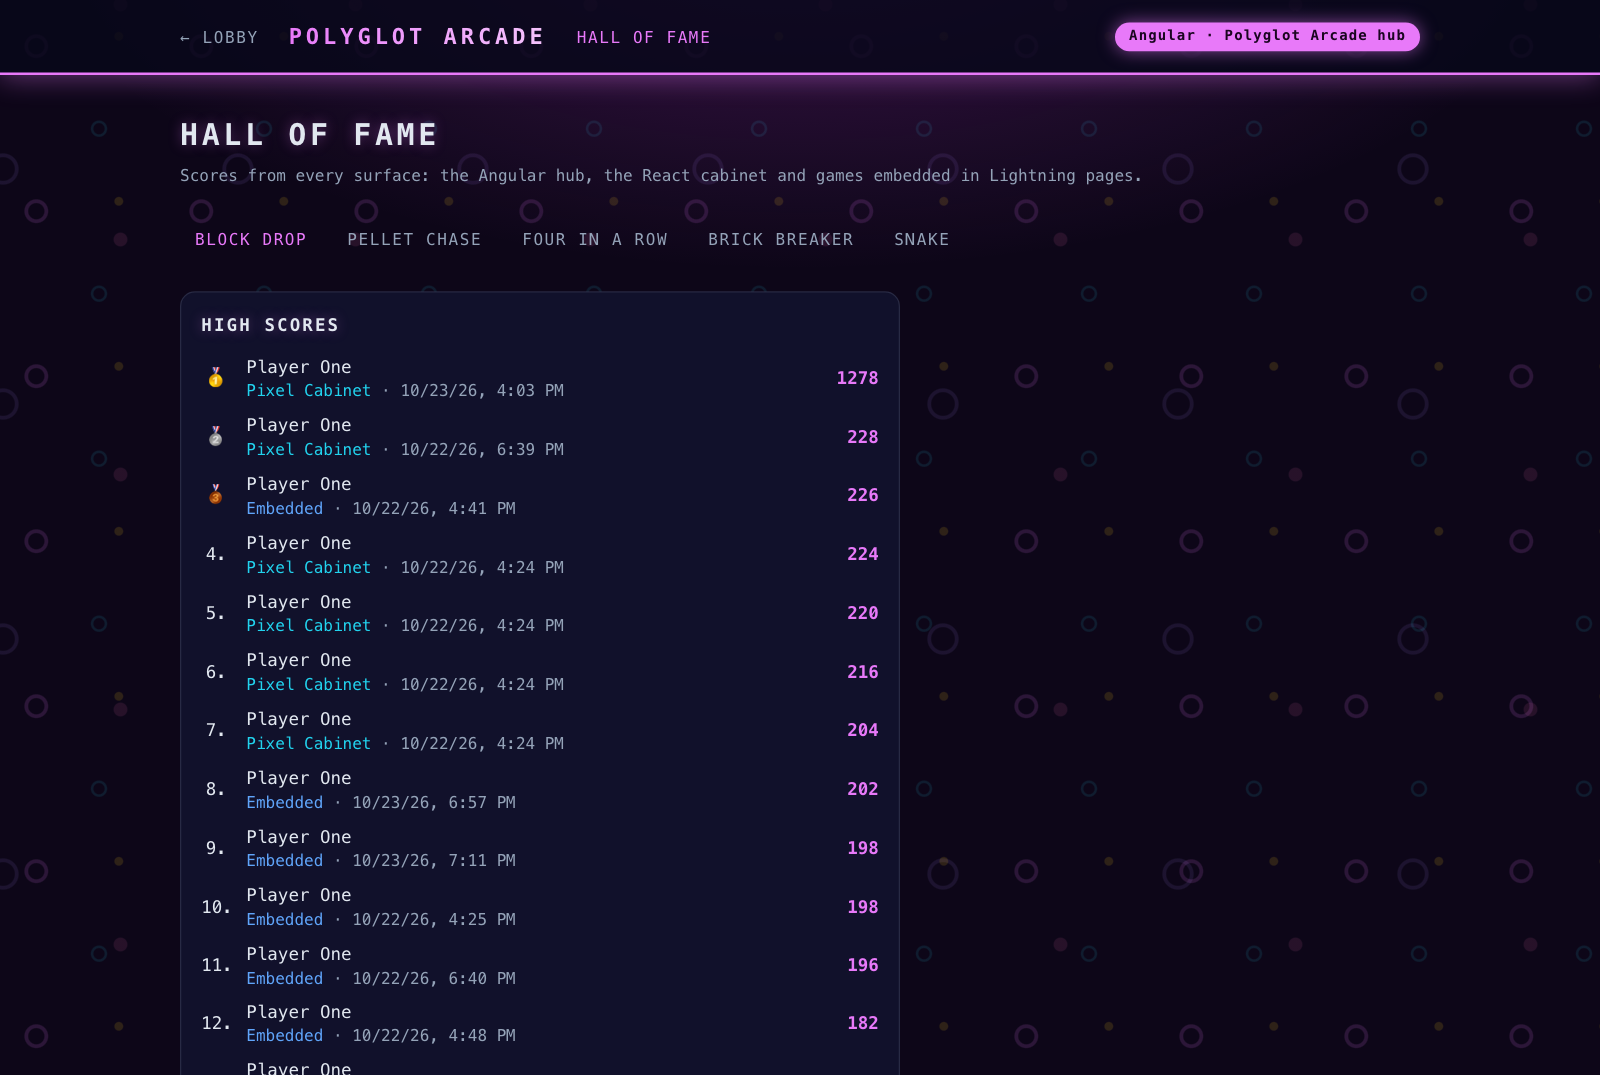
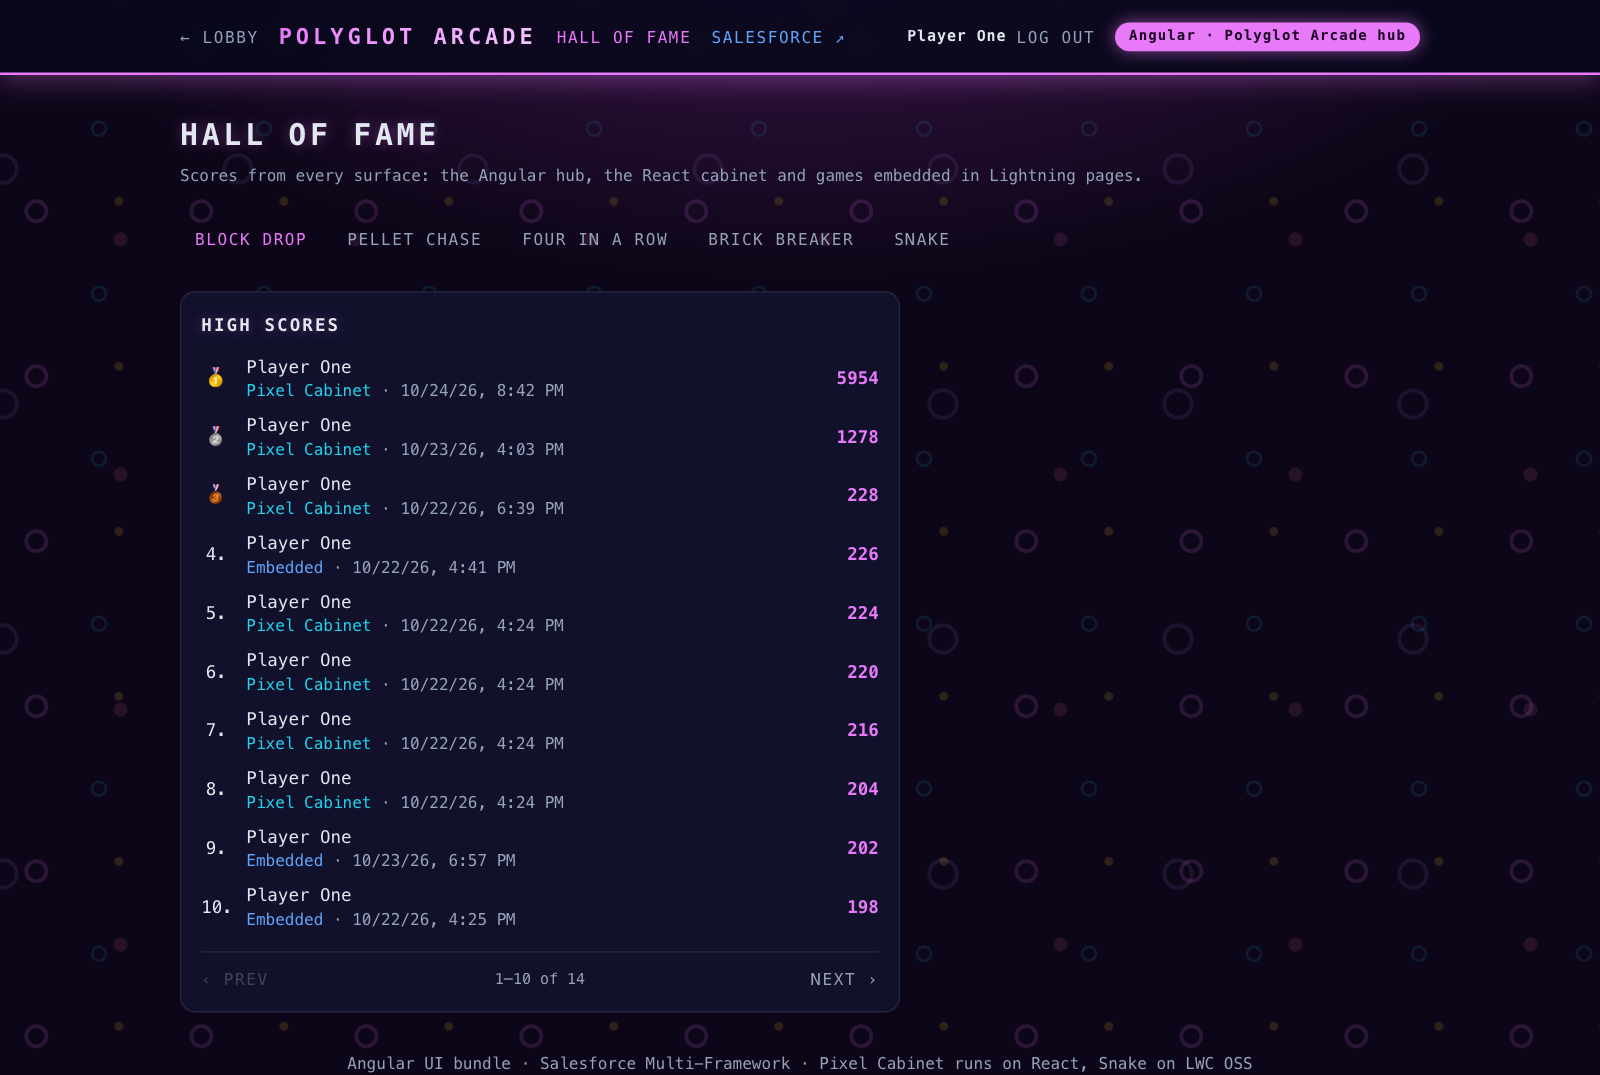
docs(machines): bar, pagination and refreshed screenshots

diff --git a/README.md b/README.md
@@ -48,13 +48,13 @@ React and Angular are generally available for UI bundles as of Winter '27. Embed
 
 **Same hall, different machines.** Every game has a cabinet of its own, with its HUD, result screen and high-score card in its style:
 
-| Game          | Machine                                                                                                            |
-| ------------- | ------------------------------------------------------------------------------------------------------------------ |
-| Pellet Chase  | Upright arcade cabinet: backlit marquee, CRT with scanlines, joystick panel, coin door, attract-screen high scores |
-| Block Drop    | Handheld brick-game console: grey-olive LCD with segment digits, direction and rotate keys as touch controls       |
-| Brick Breaker | 80s home console on a wood-grain CRT TV, with the cartridge box as high-score card                                 |
-| Four in a Row | Tabletop toy: glossy frame on feet, discs that drop and bounce, the result on the lid of the game box              |
-| Snake         | Retro phone with its own LCD; embedded, the Lightning page shows the part with the screen and the navigation keys  |
+| Game          | Machine                                                                                                                                      |
+| ------------- | -------------------------------------------------------------------------------------------------------------------------------------------- |
+| Pellet Chase  | Upright arcade cabinet: backlit marquee, CRT with scanlines, joystick panel, attract-screen high scores                                      |
+| Block Drop    | Handheld brick game in early-90s proportions: ivory plastic, grey-olive LCD with segment digits, direction and rotate keys as touch controls |
+| Brick Breaker | 80s home console on a wood-grain CRT TV, with the cartridge box as high-score card                                                           |
+| Four in a Row | Tabletop toy: glossy blue frame on feet, discs that drop and bounce, the result on the lid of the game box                                   |
+| Snake         | Retro phone with its own LCD; embedded, the Lightning page shows the part with the screen and the navigation keys                            |
 
 In the hub lobby every game card carries a teaser marquee in the look of its machine and says where the game lives.
 
@@ -62,9 +62,9 @@ In the hub lobby every game card carries a teaser marquee in the look of its mac
 | ---------------------------------------------------------------------------------------------------------------------------------------------------------------------- | -------------------------------------------------------------------------------------------------------------------------------------------------------------------- |
 | <img src="./images/four-in-a-row.png" alt="Four in a Row as a tabletop toy, won against the CPU, the result on the game box lid next to its high scores" width="440"/> | <img src="./images/brick-breaker.png" alt="Brick Breaker on a wood-grain CRT TV with the console and cartridge, next to the cartridge box high scores" width="440"/> |
 | **Block Drop (React cabinet)**                                                                                                                                         | **Pellet Chase (React cabinet)**                                                                                                                                     |
-| <img src="./images/pixel-cabinet.png" alt="Block Drop on a red handheld brick game with an LCD, in the cyan machine room of the Pixel Cabinet" width="440"/>           | <img src="./images/pellet-chase.png" alt="Pellet Chase in an upright arcade cabinet with CRT, joystick panel and the attract-screen high scores" width="440"/>       |
+| <img src="./images/pixel-cabinet.png" alt="Block Drop on an ivory handheld brick game with an LCD, in the cyan machine room of the Pixel Cabinet" width="440"/>        | <img src="./images/pellet-chase.png" alt="Pellet Chase in an upright arcade cabinet with CRT, joystick panel and the attract-screen high scores" width="440"/>       |
 | **Microfrontend on a Lightning page**                                                                                                                                  | **Hall of fame across all surfaces**                                                                                                                                 |
-| <img src="./images/snake.png" alt="Snake embedded on its page in the Arcade Floor app, with the way back to the hub and the LWC leaderboard" width="440"/>             | <img src="./images/hall-of-fame.png" alt="Hall of fame listing scores, the source of each round in the color of its surface" width="440"/>                           |
+| <img src="./images/snake.png" alt="Snake embedded on its page in the Arcade Floor app, with the way back to the hub and the LWC leaderboard" width="440"/>             | <img src="./images/hall-of-fame.png" alt="Hall of fame listing ten scores per page, the source of each round in the color of its surface" width="440"/>              |
 
 ## 🏗 Architecture
 
@@ -114,7 +114,7 @@ Every surface has one role (see [ADR 0001](docs/decisions/0001-surface-roles.md)
 | **Pixel Cabinet** (React UI bundle)     | cyan machine room   | A machine, not a second hub. It has no lobby: opening it sends the player to the hub lobby. The hub launches its games at `/play/<game>`, Lightning frames them at `/embed`.                                                                    |
 | **Arcade Floor** (Lightning app)        | blue                | Where microfrontends are composed: the **Snake** page with the Snake and its leaderboard, and the **Arcade Account** record page (app default for Accounts) with the cabinet and the Account's leaderboard. Rounds there count for the Account. |
 
-Every standalone page starts with the same marquee bar: `← Lobby` and a badge naming the surface (`Angular · Polyglot Arcade hub`, `React · Pixel Cabinet UI bundle`). The bar is laid out the same everywhere but glows in the color of its surface, and the room below it is the surface's own: the hub is a magenta arcade hall, the cabinet a cyan machine room. Lobby cards, launch buttons and the hall of fame use the same colors to say where a game lives and where a round was played, and the embedded cabinet carries a slim `React · Pixel Cabinet UI bundle` tag inside the Lightning frame. A switch between bundles is visible instead of feeling like a break (see [ADR 0002](docs/decisions/0002-surfaces-and-machines.md)). In Lightning, the host card links back with `← Polyglot Arcade`.
+Every standalone page starts with the same marquee bar, which stays on top while the page scrolls: `← Lobby`, `Salesforce ↗` (the way out to the Arcade Floor app in Lightning), the player with `Log out`, and a badge naming the surface (`Angular · Polyglot Arcade hub`, `React · Pixel Cabinet UI bundle`). The player and `Log out` replace the platform's session banner, which both bundles switch off with `<meta name="sf-session-banner" content="disabled">`. The bar is laid out the same everywhere but glows in the color of its surface, and the room below it is the surface's own: the hub is a magenta arcade hall, the cabinet a cyan machine room. Lobby cards, launch buttons and the hall of fame use the same colors to say where a game lives and where a round was played, and the embedded cabinet carries a slim `React · Pixel Cabinet UI bundle` tag inside the Lightning frame. A switch between bundles is visible instead of feeling like a break (see [ADR 0002](docs/decisions/0002-surfaces-and-machines.md)). In Lightning, the host card links back with `← Polyglot Arcade`.
 
 The demo covers four integration patterns:
 

diff --git a/docs/decisions/0002-surfaces-and-machines.md b/docs/decisions/0002-surfaces-and-machines.md
@@ -14,10 +14,10 @@ Polyglot Arcade exists to show Salesforce Multi-Framework. That two frameworks r
 
 **Same hall, different machines - and two halls, one bar.** There are two levels of identity:
 
-| Level   | What is shared                                                                                     | What is its own                                                                                                                                                                                                            |
-| ------- | -------------------------------------------------------------------------------------------------- | -------------------------------------------------------------------------------------------------------------------------------------------------------------------------------------------------------------------------- |
-| Surface | The marquee bar's layout (`← Lobby`, logo, badge), base tokens, round result and high-score markup | A surface color and a room: the Angular hub is a **magenta arcade hall** with a carpet pattern, the React cabinet a **cyan machine room** with a blueprint grid. Lightning's Arcade Floor is **blue**.                     |
-| Machine | Nothing but the data: score, level, the leaderboard rows                                           | Cabinet, screen, HUD, controls, result screen and high-score card: an upright CRT cabinet (Pellet Chase), a handheld brick game (Block Drop), a console on a wood-grain TV (Brick Breaker), a tabletop toy (Four in a Row) |
+| Level   | What is shared                                                                                                             | What is its own                                                                                                                                                                                                            |
+| ------- | -------------------------------------------------------------------------------------------------------------------------- | -------------------------------------------------------------------------------------------------------------------------------------------------------------------------------------------------------------------------- |
+| Surface | The marquee bar's layout (`← Lobby`, logo, `Salesforce ↗`, player, badge), base tokens, round result and high-score markup | A surface color and a room: the Angular hub is a **magenta arcade hall** with a carpet pattern, the React cabinet a **cyan machine room** with a blueprint grid. Lightning's Arcade Floor is **blue**.                     |
+| Machine | Nothing but the data: score, level, the leaderboard rows                                                                   | Cabinet, screen, HUD, controls, result screen and high-score card: an upright CRT cabinet (Pellet Chase), a handheld brick game (Block Drop), a console on a wood-grain TV (Brick Breaker), a tabletop toy (Four in a Row) |
 
 The surface colors are used wherever a surface is named: the marquee bar and badge, a legend and a "Lives in" line on every lobby card, the launch buttons (they take the color of the surface they open), the source of each round in the hall of fame, and a slim `React · Pixel Cabinet UI bundle` tag below the compact machine that Lightning frames at `/embed`.
 
@@ -28,7 +28,8 @@ How it is built:
 - Fonts (Press Start 2P, DSEG7, VT323, Fredoka) come from npm under the SIL Open Font License and are bundled at build time. No CDN, no CSP change.
 - Teaser marquees in the lobby are pixel art per `Game_Key__c`, kept as data in the hub (`games/marquees.ts`) and drawn as SVG, so they need no asset path. Unknown games keep the plain card.
 - Game rules stay untouched in `engine.ts`. Canvas games only changed how they draw (an LCD for Block Drop, chunky 80s colors for Brick Breaker); scanlines and glare are CSS overlays above the canvas.
-- Nothing in a machine is sized by the viewport, and flicker, blinking lights and bounces stop under `prefers-reduced-motion`.
+- Nothing in a machine is sized by the viewport, and flicker, blinking lights and bounces stop under `prefers-reduced-motion`. Machines fit a 1280 × 860 window below the bar; the Pellet Chase cabinet is cut off below its control panel for that.
+- The marquee bar is sticky. It shows the player (`uiapi.currentUser`) and `Log out` (`/secur/logout.jsp`), so the platform's "Logged in as" banner is switched off with `<meta name="sf-session-banner" content="disabled">` in both `index.html` files - also inside the Lightning frame, where Lightning already shows who is logged in.
 
 ## Consequences
 
@@ -41,5 +42,5 @@ How it is built:
 
 - **Color only.** Same room for both bundles, only the bar in the surface color. Easy to miss once the machines fill the page.
 - **Framed surfaces.** A frame in the surface color around every page with a corner label, like a boundary in an architecture diagram. Very explicit, but it overlaps with the Tech X-ray planned for v0.8.0.
-- **Machine look-alikes of real products.** A blue four-in-a-row frame or a yellow handheld with slanted A/B buttons read as specific trademarked products. The machines keep the mechanics' classic shapes but their own colors and layouts.
+- **Machine look-alikes of real products.** The machines keep the classic shapes and colors players remember - the blue frame of the toy, the early-90s proportions of the handheld - but no names, logos or signature details of specific products (no slanted A/B buttons or cross d-pad on the handheld, no brand lettering).
 - **Fonts from a CDN.** Would need a CSP Trusted Site per font host and breaks without network access to it.

diff --git a/docs/decisions/0001-surface-roles.md b/docs/decisions/0001-surface-roles.md
@@ -34,7 +34,7 @@ Navigation between the surfaces:
 
 - **Shared marquee bar.** Every standalone UI bundle page starts with the same bar: `← Lobby` and a badge naming the surface (`Angular · Polyglot Arcade hub`, `React · Pixel Cabinet UI bundle`). It is the one piece of chrome the bundles deliberately share (`arcade.css` in both bundles). The switch between bundles stays visible as a feature, not as a break.
 - **Hub → cabinet:** the App URL on the React game records (unchanged).
-- **Hub → Lightning:** `SFDC_ENV.orgUrl` plus `/lightning/app/c__arcadeFloor/n/<tab>`.
+- **Hub → Lightning:** `SFDC_ENV.orgUrl` plus `/lightning/app/c__arcadeFloor/n/<tab>`. Since v0.7.0 the marquee bar of both bundles also has a `Salesforce ↗` link to the Arcade Floor app itself.
 - **Cabinet → hub:** derived from the cabinet's own base path, no stored URL.
 - **Lightning → hub:** a `← Polyglot Arcade` action on the `arcadeGameHost` card. The hub URL is the App URL of the Angular game records, stored by `npm run connect`. Every game record now says where its game lives.
 
